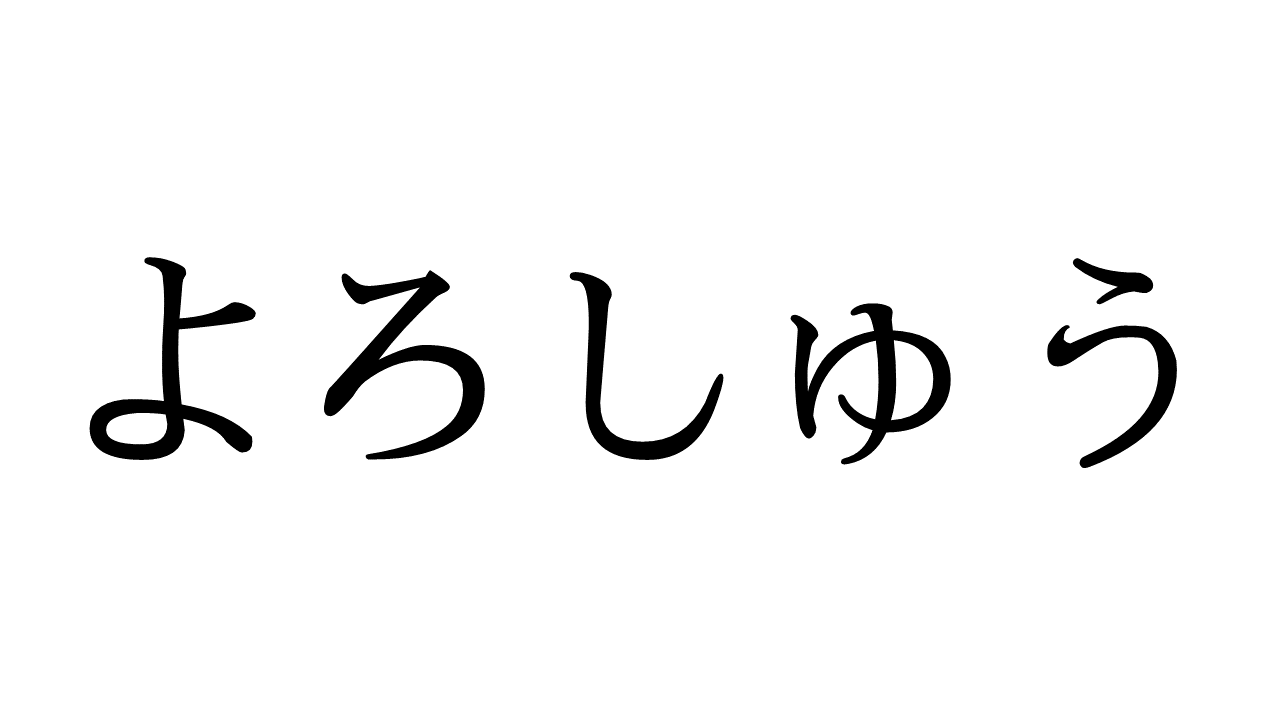
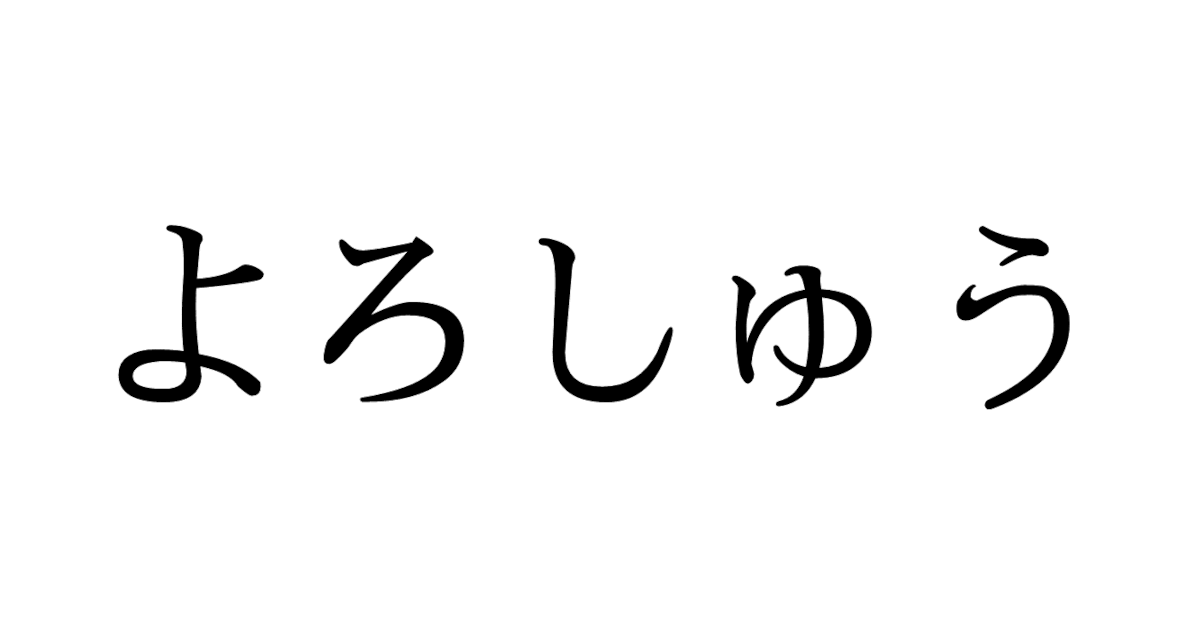
change ogp type

diff --git a/index.html b/index.html
@@ -6,13 +6,13 @@
     <meta name="viewport" content="width=device-width, initial-scale=1">
     <meta name="description" content="よろしゅう">
 
-    <meta name="twitter:card" content="summary_large_image">
+    <meta name="twitter:card" content="summary">
     <meta name="twitter:site" content="@honahuku">
     <meta property="og:url" content="https://yoro.cyou/">
     <meta property="og:type" content="website">
     <meta property="og:title" content="https://yoro.cyou/">
     <meta property="og:description" content="よろしゅう">
-    <meta property="og:image" content="https://yoro.cyou/yorocyou.png">
+    <meta property="og:image" content="https://yoro.cyou/yorocyou-square.png">
 
     <link rel="icon" href="favicon.ico">
 
